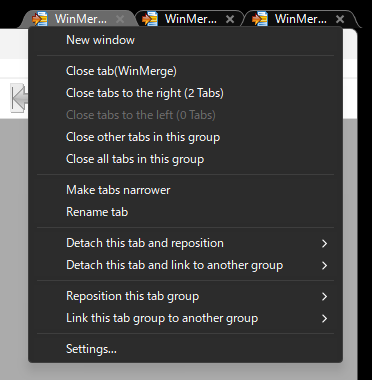
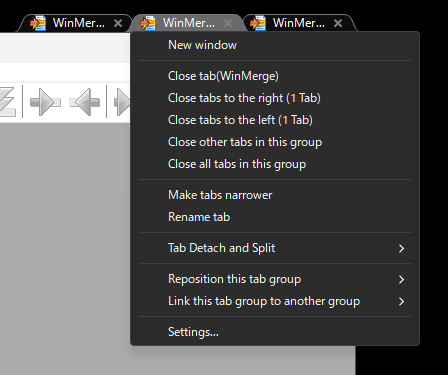
update README

diff --git a/README_Japanese.md b/README_Japanese.md
@@ -108,55 +108,61 @@ WindowTabs をスタートアップ時に起動:
 - **タブのコンテキストメニュー**: 右クリックでタブの様々な機能にアクセスできます
   - 新規ウィンドウ
   - タブを閉じる (このタブ、右側のタブ、左側のタブ、その他タブ、すべてのタブ)
+  ---
   - タブの幅を拡張 / 縮小
   - タブの名前を変更
-  - ---
-  - タブを切り離して位置を変更
-  - タブを切り離して別のグループにリンク
+  ---
+  - タブの分離と分割 (サブメニュー)
+    - このタブを分離して位置移動
+    - このタブを分離して他のグループへ連結
+    ---
+    - 右側/左側を分割して位置移動
+    - 右側/左側を分割して他のグループへ連結
+  ---
   - タブグループの位置を変更
-  - タブグループを別グループにリンク
+  - タブグループを別グループへ連結
+  ---
   - 設定
 
 ![Popup Menu](README_Image/PopupMenu.png)
 
-### タブを切り離して位置を変更
+### タブの分離と分割
 
-タブをグループから切り離しとマルチディスプレイのサポートで再配置できます:
-- 同じ位置での切り離し
-- 画面の端に移動 (右/左/上/下)
-- 異なる DPI ディスプレイでも正確に配置するための、DPI を考慮したパーセンテージベースの位置指定
+「タブの分離と分割」サブメニューは、強力なタブ管理オプションを提供します:
 
-![Detach Tab](README_Image/DetachTab.png)
+![Tab Detach and Split](README_Image/DetachTab.png)
 
-### タブグループの位置を変更
+#### 位置移動
 
-タブグループ全体を別の表示位置に移動できます:
+- 分離と分割の操作で、同じ位置のオプションが利用可能
 - 現在の画面の端に移動 (右/左/上/下)
 - 画面端に配置のオプションを使用して他のディスプレイに移動
-- 異なる DPI ディスプレイ間での正確な配置を実現するための DPI 対応
-- 再配置時にタブグループの整合性を維持
+- 異なる DPI ディスプレイでも正確に配置するための、DPI を考慮したパーセンテージベースの位置指定
 
-![Reposition tab group](README_Image/MoveTabGroup.png)
+#### 他のグループへ連結
 
-### タブを切り離して別のグループにリンク
-
-現在のグループから 1 つのタブを切り離して既存のグループにリンクできます:
+タブまたは複数のタブを既存のグループに連結できます:
 - タブの名前とタブの数とともに他のグループを表示
-- タブの名前を自動で切り捨てで認識しやすくする
-- グループを識別しやすくするためにアプリケーションアイコンを表示
-- タブグループにタブが 1 つしかない場合に無効
+- 各グループの先頭タブのアプリケーションアイコンを表示
 
-![Detach and link tab to another group](README_Image/MoveTab.png)
+![他のグループへ連結](README_Image/MoveTab.png)
 
-### タブグループを別のグループにリンク
+#### このタブを分離
 
-現在のグループから別の既存のグループにすべてのタブを転送できます:
-- タブの名前とタブの数とともに別のグループを表示
-- 現在のグループから対象のグループにすべてのタブを一括で転送
-- タブの名前を自動で切り捨てで認識しやすくする
-- グループを識別しやすいようにアプリケーションアイコンを表示
+タブグループから1つのタブを分離します。
 
-![Link tab group to another group](README_Image/MoveTabGroupToGroup.png)
+#### 右側/左側を分割
+
+3タブ以上のタブグループを分割する機能です:
+- 対象タブを含めて右側または左側にタブの分割を行えます
+- 位置移動と他のグループへの連結操作をサポート
+
+#### タブグループ全体
+
+タブグループ全体を操作します:
+- 位置移動と他のグループへの連結操作をサポート
+
+![タブグループを別グループへ連結](README_Image/MoveTabGroupToGroup.png)
 
 
 ### ダークモード / ライトモードのメニュー

diff --git a/README.md b/README.md
@@ -108,55 +108,61 @@ This feature remains unchanged from the original WindowTabs functionality.
 - **Tab Context Menu**: Right-click on tabs to access various options
   - New window
   - Close tabs (this tab, tabs to the right, tabs to the left, other tabs, all tabs)
+  ---
   - Make tabs wider / Make tabs narrower
   - Rename tab
-  - ---
-  - Detach and reposition tab
-  - Detach and link tab to another group
-  - Reposition tab group
-  - Link tab group to another group
+  ---
+  - Tab Detach and Split (submenu)
+    - Detach this tab and reposition
+    - Detach this tab and link to another group
+    ---
+    - Split right / left side and reposition
+    - Split right / left side and link to group
+  ---
+  - Reposition this tab group
+  - Link this tab group to another group
+  ---
   - Settings
 
 ![Popup Menu](README_Image/PopupMenu.png)
 
-### Detach and reposition tab
+### Tab Detach and Split
 
-Detach a tab from group and reposition it with multi-display support:
-- Detach at same position
-- Move to display edges (right/left/top/bottom)
-- DPI-aware percentage-based positioning for correct placement across different DPI displays
+The "Tab Detach and Split" submenu provides powerful tab management options:
 
-![Detach Tab](README_Image/DetachTab.png)
+![Tab Detach and Split](README_Image/DetachTab.png)
 
-### Reposition tab group
+#### Reposition
 
-Move entire tab group to different display positions:
+- For detach and split operations, same position option is available
 - Move to current display edges (right/left/top/bottom)
 - Move to other displays with edge positioning options
-- DPI-aware positioning for correct placement across different DPI displays
-- Maintains tab group integrity while repositioning
+- DPI-aware percentage-based positioning for correct placement across different DPI displays
 
-![Reposition tab group](README_Image/MoveTabGroup.png)
+#### Link to another group
 
-### Detach and link tab to another group
-
-Detach a single tab from current group and link it to another existing group:
+Link a tab or tabs to another existing group:
 - Shows other groups with tab names and counts
-- Adaptive tab name truncation for easy identification
-- Display application icons for group recognition
-- Disabled when tab group has only one tab
+- Displays the application icon of the first tab in each group
 
-![Detach and link tab to another group](README_Image/MoveTab.png)
+![Link to another group](README_Image/MoveTab.png)
 
-### Link tab group to another group
+#### Detach this tab
 
-Transfer all tabs from current group to another existing group:
-- Shows other groups with tab names and counts
-- Transfers all tabs at once from current group to target group
-- Adaptive tab name truncation for easy identification
-- Display application icons for group recognition
+Detach a single tab from the tab group.
 
-![Link tab group to another group](README_Image/MoveTabGroupToGroup.png)
+#### Split right/left side
+
+Split tab groups with 3 or more tabs:
+- Split tabs to the right or left, including the selected tab
+- Supports reposition and link to another group operations
+
+#### This tab group
+
+Operates on the entire tab group:
+- Supports reposition and link to another group operations
+
+![Link this tab group to another group](README_Image/MoveTabGroupToGroup.png)
 
 
 ### Menu Dark Mode / Light Mode
